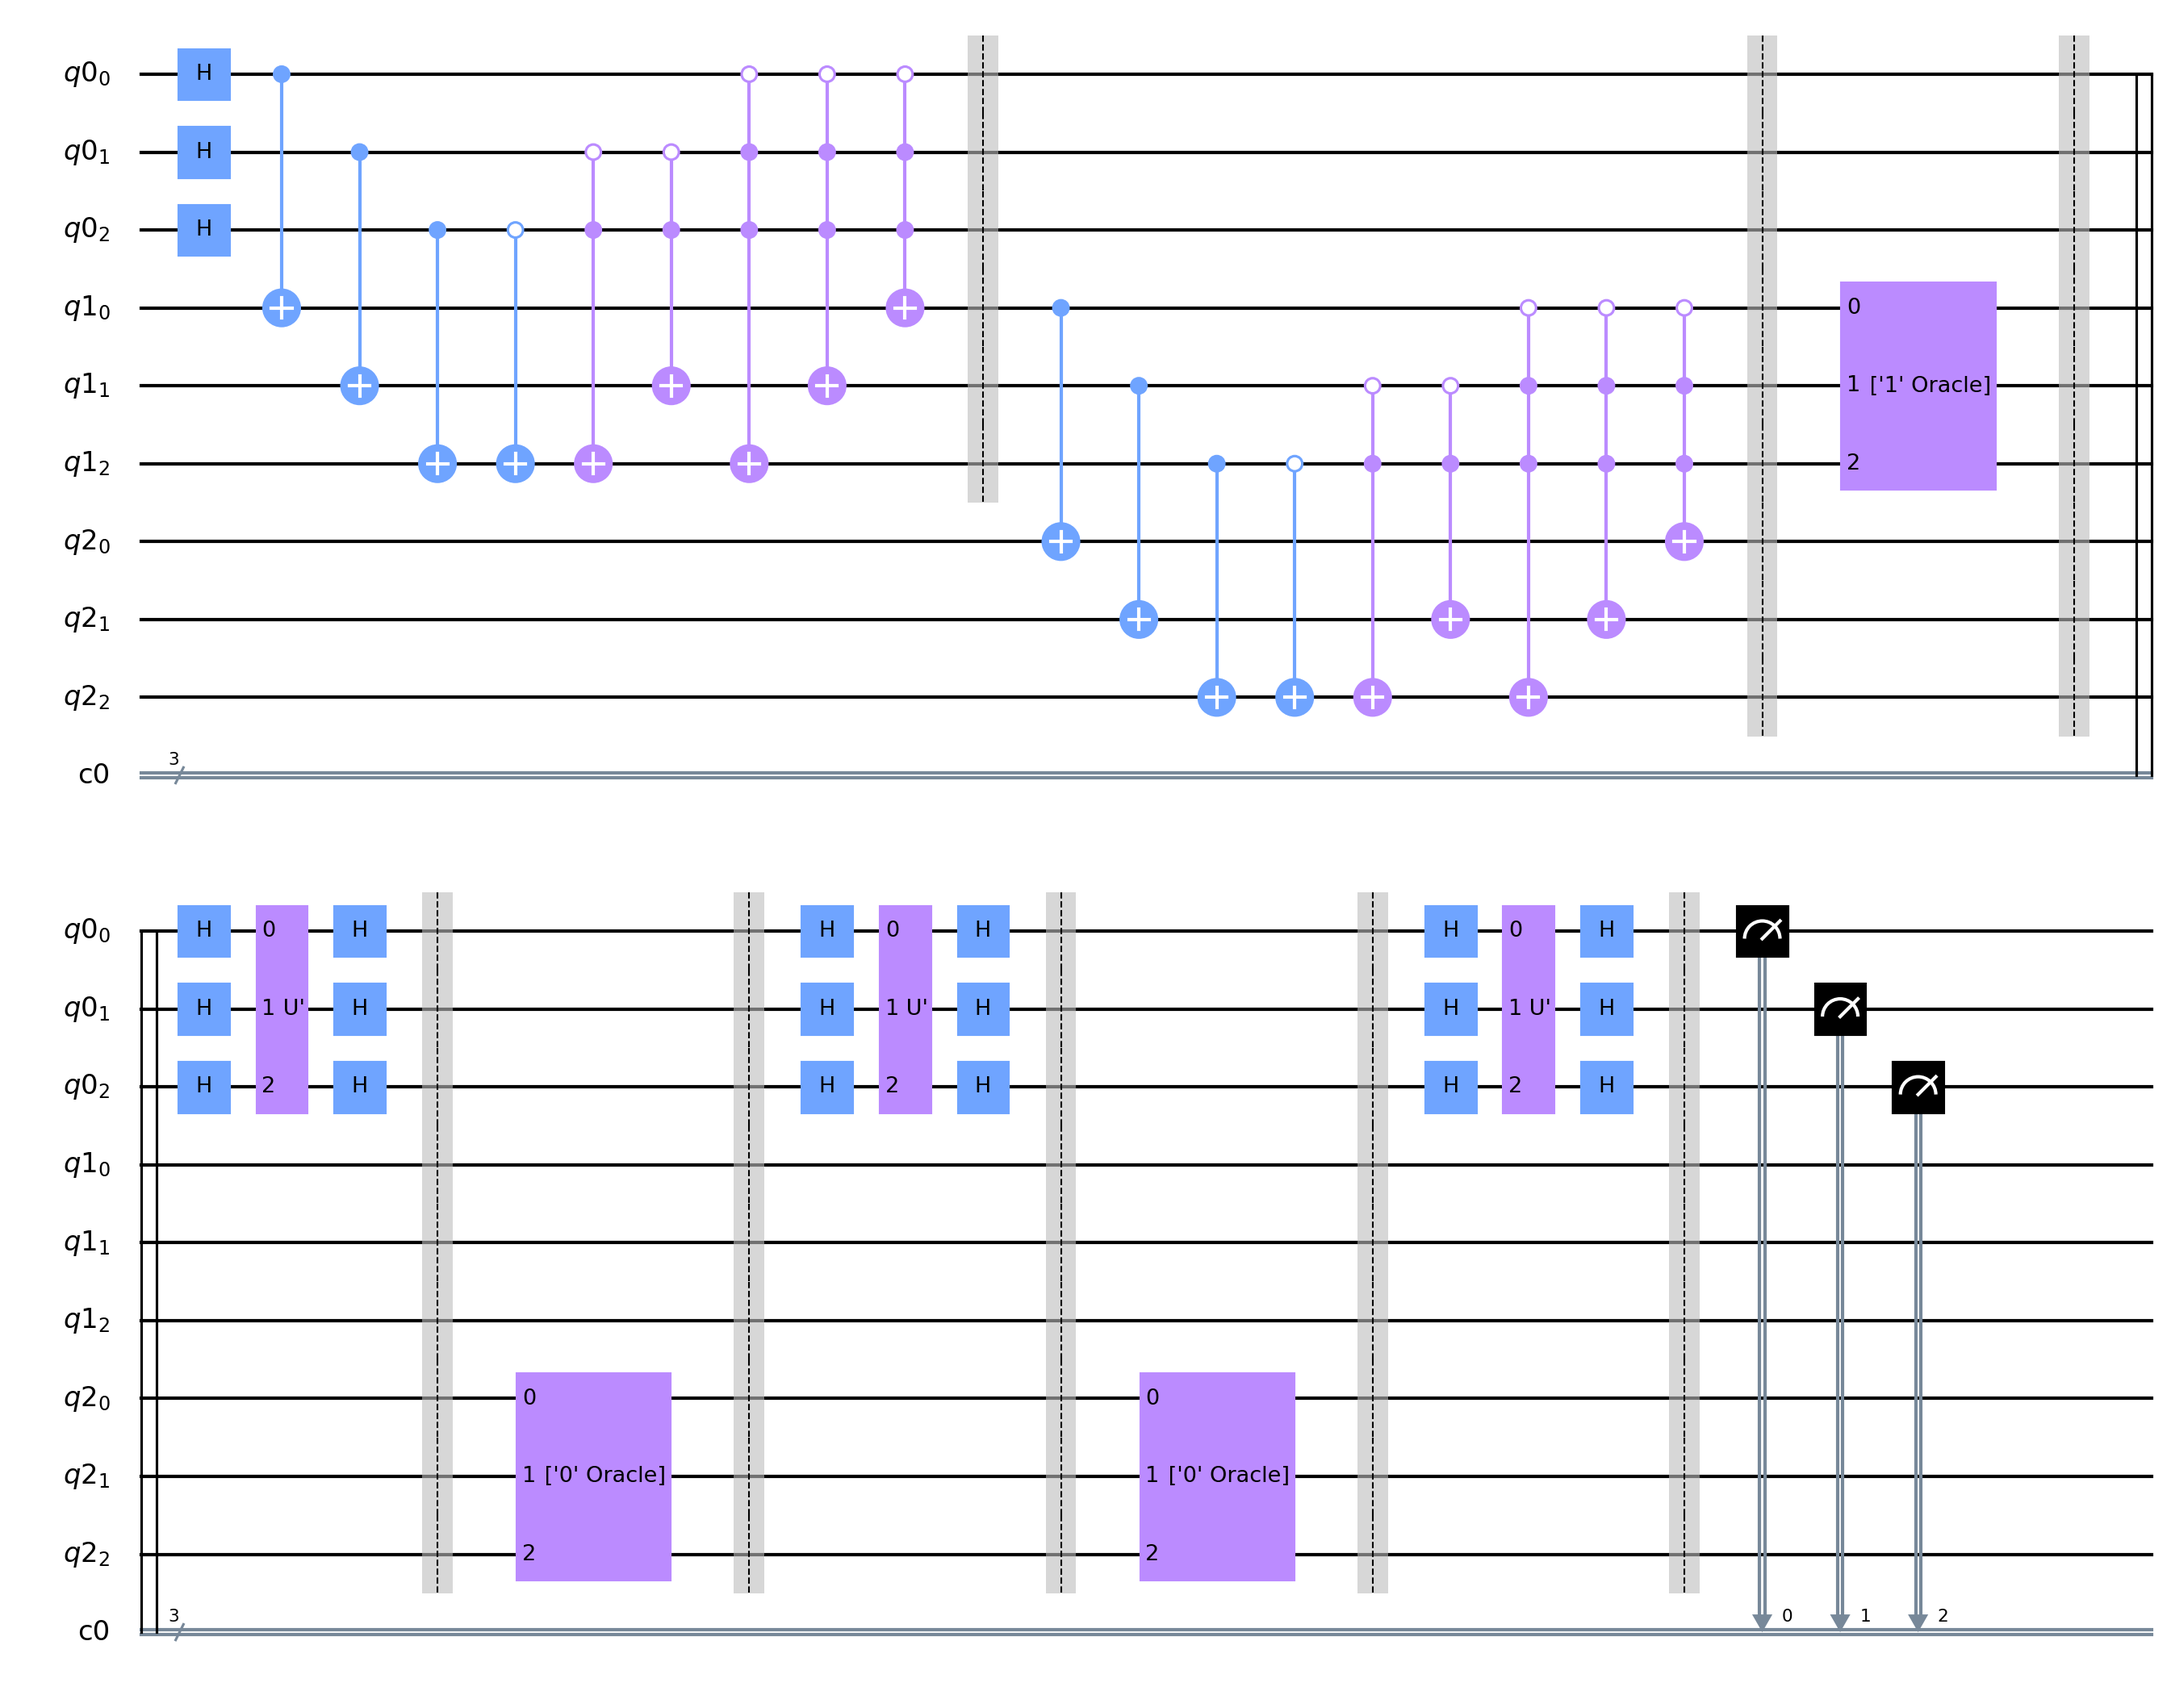
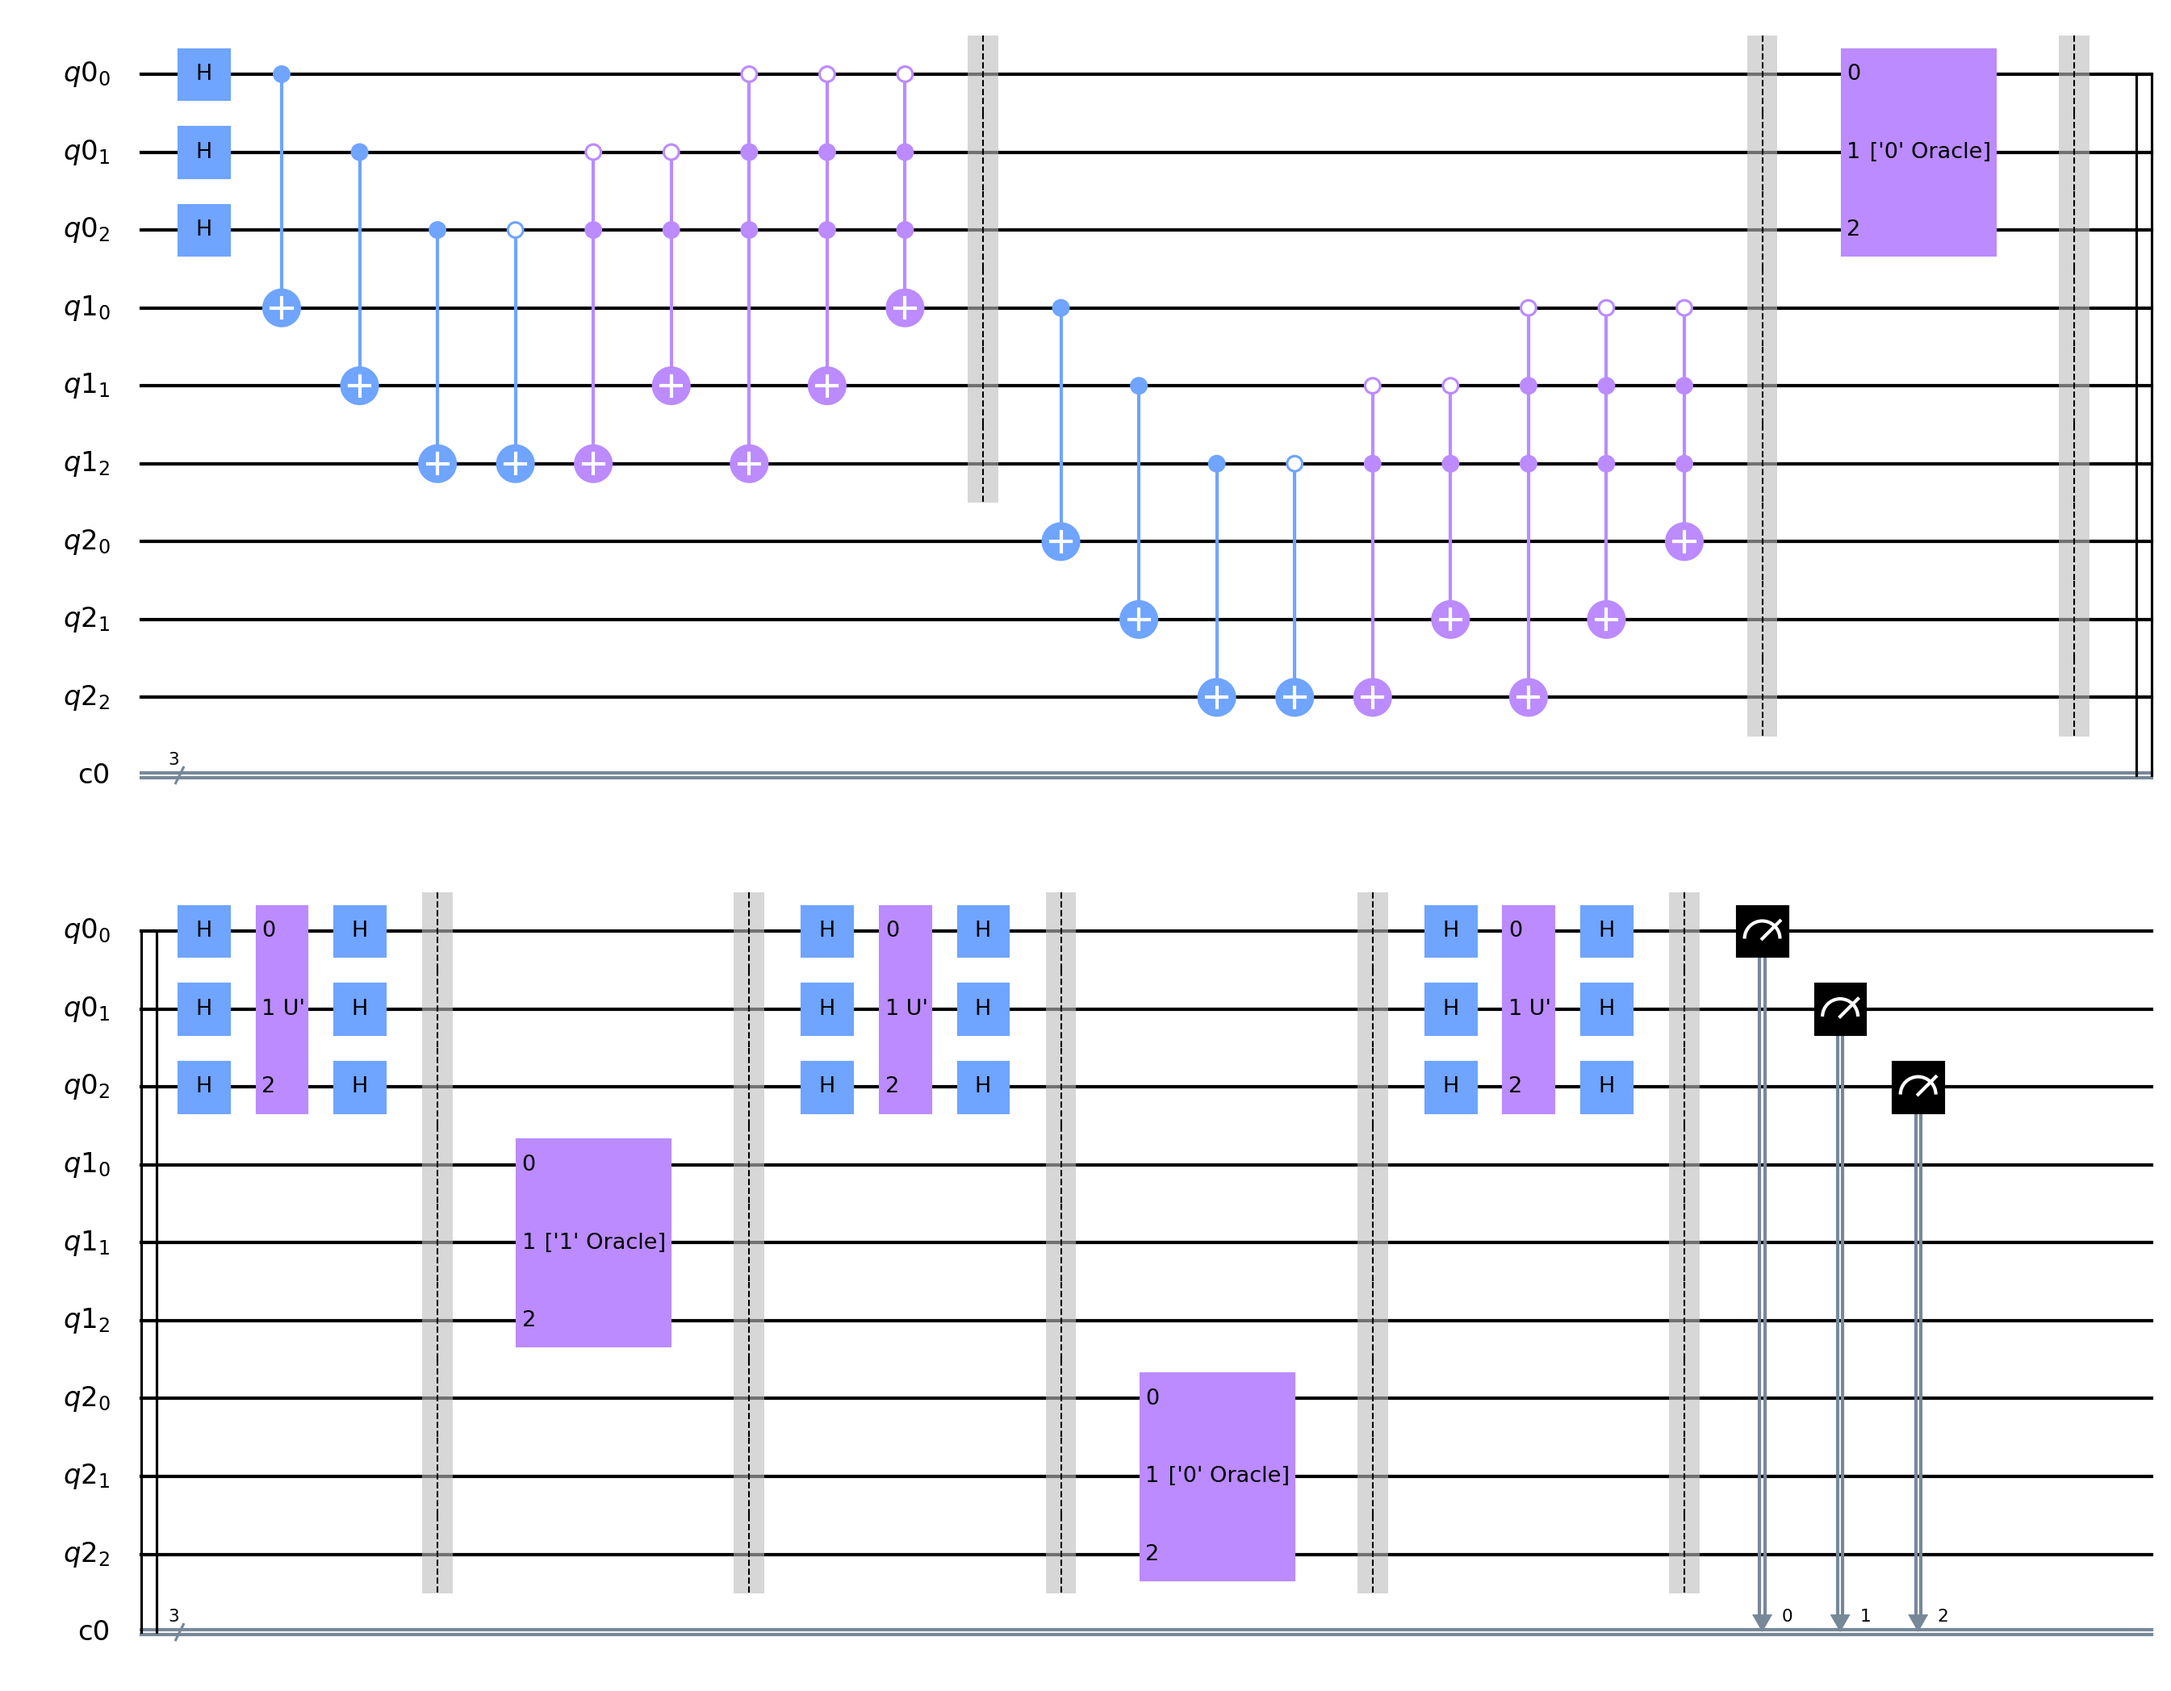
Refine

Changed region(s): [[0.2186, 0.6512, 0.3123, 0.9614], [0.8431, 0.031, 0.9368, 0.3101]]

diff --git a/src/pattern_match.py b/src/pattern_match.py
@@ -121,15 +121,17 @@ def create_initial_state(qc, s, M):
     for i in range(1, M):
         _add_pattern_char_state(qc, i, s)
 
-def diffuser(qc, s):
-    qc.h( qubits_for_pattern_chars[0] )
+def diffuser(qc, oracles, s):
+    # qc.h( qubits_for_pattern_chars[0] )
+    for qubit_group in qubits_for_pattern_chars:
+        qc.h( qubit_group )
 
     diffuser_matrix = np.identity( int( 2**s ) )
     diffuser_matrix[0, 0] = -1
     qubit_start_index = 0
     qubit_stop_index  = qubit_start_index + s
     qc.unitary(
-        quantum_info.Operator( diffuser_matrix ),
+        oracles['*'], # quantum_info.Operator( diffuser_matrix ),
         range( qubit_start_index, qubit_stop_index ),
         label = " U'"
     )
@@ -155,7 +157,7 @@ def pattern_match(qc, oracles, pattern, s):
     qc.barrier()
 
     # c. Apply Diffusion Operator to the entire state psi
-    diffuser(qc, s)
+    diffuser(qc, oracles, s)
 
     qc.barrier()
 

diff --git a/src/oracles.py b/src/oracles.py
@@ -21,7 +21,7 @@ def generate_oracles(s, input_string, pattern_length):
 
     for pattern_char in alphabet:
         pattern_char_oracle_matrix = np.identity( int( 2**s ) )
-
+        # TODO: Imitate tensor products
         N = len(input_string)
         M = pattern_length
         for i in range( 2**s ):
